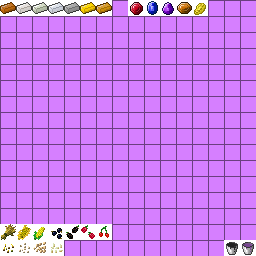
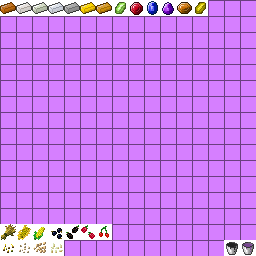
Updated to 1.4.7 fixed Nether and burning basalt.

Changed region(s): [[0.75, 0.0, 0.8125, 0.0625], [0.4375, 0.0, 0.5, 0.0625]]

diff --git a/GNHRM/src/ModBlockModOre.java b/GNHRM/src/ModBlockModOre.java
@@ -21,27 +21,27 @@ public class ModBlockModOre extends ModBlocks
     {
         if(this.blockID == ModBlocks.oreUranium.blockID)
         {
-               return ModItems.uranium.shiftedIndex;
+               return ModItems.uranium.itemID;
         }
         else if(this.blockID == ModBlocks.oreRuby.blockID)
         {
-            return ModItems.ruby.shiftedIndex;
+            return ModItems.ruby.itemID;
         }
         else if(this.blockID == ModBlocks.oreSapphire.blockID)
         {
-            return ModItems.sapphire.shiftedIndex;
+            return ModItems.sapphire.itemID;
         }
         else if(this.blockID == ModBlocks.oreAmethyst.blockID)
         {
-            return ModItems.amethyst.shiftedIndex;
+            return ModItems.amethyst.itemID;
         }
         else if(this.blockID == ModBlocks.oreTopaz.blockID)
         {
-            return ModItems.topaz.shiftedIndex;
+            return ModItems.topaz.itemID;
         }
         else if(this.blockID == ModBlocks.oreSulphur.blockID)
         {
-            return ModItems.sulphur.shiftedIndex;
+            return ModItems.sulphur.itemID;
         }
         else
         {

diff --git a/GNHRM/src/ModBlockBurningBasalt.java b/GNHRM/src/ModBlockBurningBasalt.java
@@ -20,14 +20,14 @@ public class ModBlockBurningBasalt extends ModBlocks
 	
 	public AxisAlignedBB getCollisionBoundingBoxFromPool(World par1World, int par2, int par3, int par4)
     {
-        float var5 = 1.0F;
+        float var5 = 0.25F;
         return AxisAlignedBB.getAABBPool().addOrModifyAABBInPool((double)((float)par2 + var5), (double)par3, (double)((float)par4 + var5), (double)((float)(par2 + 1) - var5), (double)((float)(par3 + 1) - var5), (double)((float)(par4 + 1) - var5));
     }
     
 	@SideOnly(Side.CLIENT)
     public AxisAlignedBB getSelectedBoundingBoxFromPool(World par1World, int par2, int par3, int par4)
     {
-        float var5 = 1.0F;
+        float var5 = 0.25F;
         return AxisAlignedBB.getAABBPool().addOrModifyAABBInPool((double)((float)par2 + var5), (double)par3, (double)((float)par4 + var5), (double)((float)(par2 + 1) - var5), (double)(par3 + 1), (double)((float)(par4 + 1) - var5));
     }
 	

diff --git a/GNHRM/src/ModWorldGenMinableCustom.java b/GNHRM/src/ModWorldGenMinableCustom.java
@@ -75,7 +75,8 @@ public class ModWorldGenMinableCustom extends WorldGenerator
                     {
                         double d14 = (((double)j2 + 0.5D) - d8) / (d10 / 2D);
 
-                        if (d12 * d12 + d13 * d13 + d14 * d14 < 1.0D && par1World.getBlockId(l1, i2, j2) == replaceBlockId)
+                        if (d12 * d12 + d13 * d13 + d14 * d14 < 1.0D && i2 < 128
+						    && par1World.getBlockId(l1, i2, j2) == replaceBlockId)
                         {
                             par1World.setBlockAndMetadata(l1, i2, j2, minableBlockId, metadata);
                         }

diff --git a/GNHRM/src/ModBlockBarley.java b/GNHRM/src/ModBlockBarley.java
@@ -113,12 +113,12 @@ public class ModBlockBarley extends ModBlockPlant
     
     protected int getSeedItem()
     {
-        return ModItems.barleySeeds.shiftedIndex;
+        return ModItems.barleySeeds.itemID;
     }
 
     protected int getCropItem()
     {
-        return ModItems.barley.shiftedIndex;
+        return ModItems.barley.itemID;
     }
     
     public void dropBlockAsItemWithChance(World par1World, int par2, int par3, int par4, int par5, float par6, int par7)

diff --git a/GNHRM/src/ModBlockRye.java b/GNHRM/src/ModBlockRye.java
@@ -113,12 +113,12 @@ public class ModBlockRye extends ModBlockPlant
     
     protected int getSeedItem()
     {
-        return ModItems.ryeSeeds.shiftedIndex;
+        return ModItems.ryeSeeds.itemID;
     }
 
     protected int getCropItem()
     {
-        return ModItems.rye.shiftedIndex;
+        return ModItems.rye.itemID;
     }
     
     public void dropBlockAsItemWithChance(World par1World, int par2, int par3, int par4, int par5, float par6, int par7)

diff --git a/GNHRM/src/ModBlockRice.java b/GNHRM/src/ModBlockRice.java
@@ -146,12 +146,12 @@ public class ModBlockRice extends ModBlockPlant
     
     protected int getSeedItem()
     {
-        return ModItems.rice.shiftedIndex;
+        return ModItems.rice.itemID;
     }
 
     protected int getCropItem()
     {
-        return ModItems.rice.shiftedIndex;
+        return ModItems.rice.itemID;
     }
     
     public void dropBlockAsItemWithChance(World par1World, int par2, int par3, int par4, int par5, float par6, int par7)

diff --git a/GNHRM/src/ModBlockOat.java b/GNHRM/src/ModBlockOat.java
@@ -113,12 +113,12 @@ public class ModBlockOat extends ModBlockPlant
     
     protected int getSeedItem()
     {
-        return ModItems.oat.shiftedIndex;
+        return ModItems.oat.itemID;
     }
 
     protected int getCropItem()
     {
-        return ModItems.oat.shiftedIndex;
+        return ModItems.oat.itemID;
     }
     
     public void dropBlockAsItemWithChance(World par1World, int par2, int par3, int par4, int par5, float par6, int par7)

diff --git a/GNHRM/src/ModBlockModLog.java b/GNHRM/src/ModBlockModLog.java
@@ -12,8 +12,6 @@ import net.minecraft.world.World;
 
 public class ModBlockModLog extends ModBlocks
 {
-    public static final String[] woodType = new String[] {"cherry"};
-
     protected ModBlockModLog(int texture)
     {
         super(texture, Material.wood);
